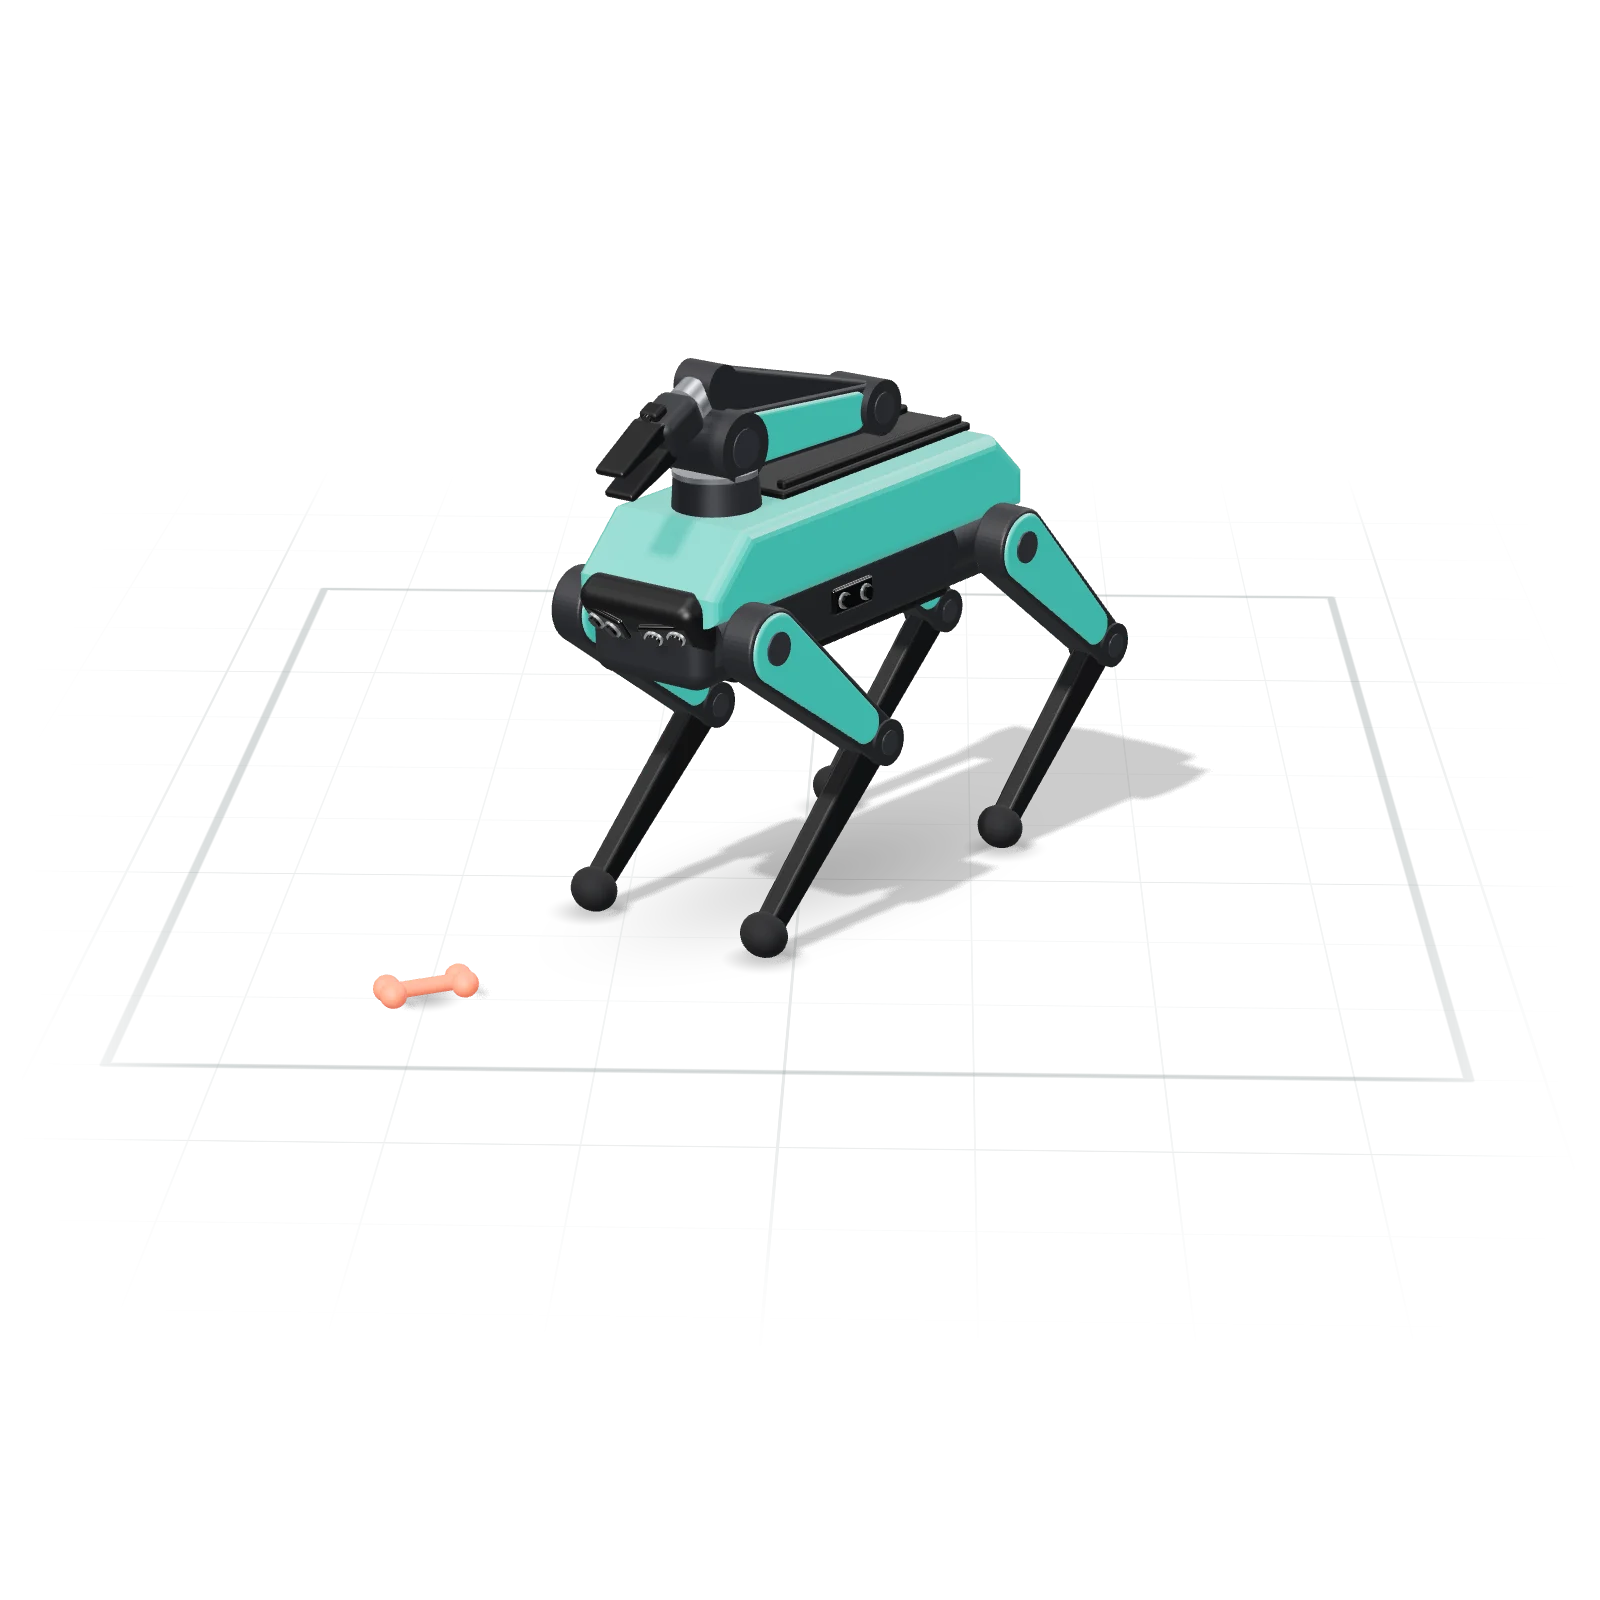
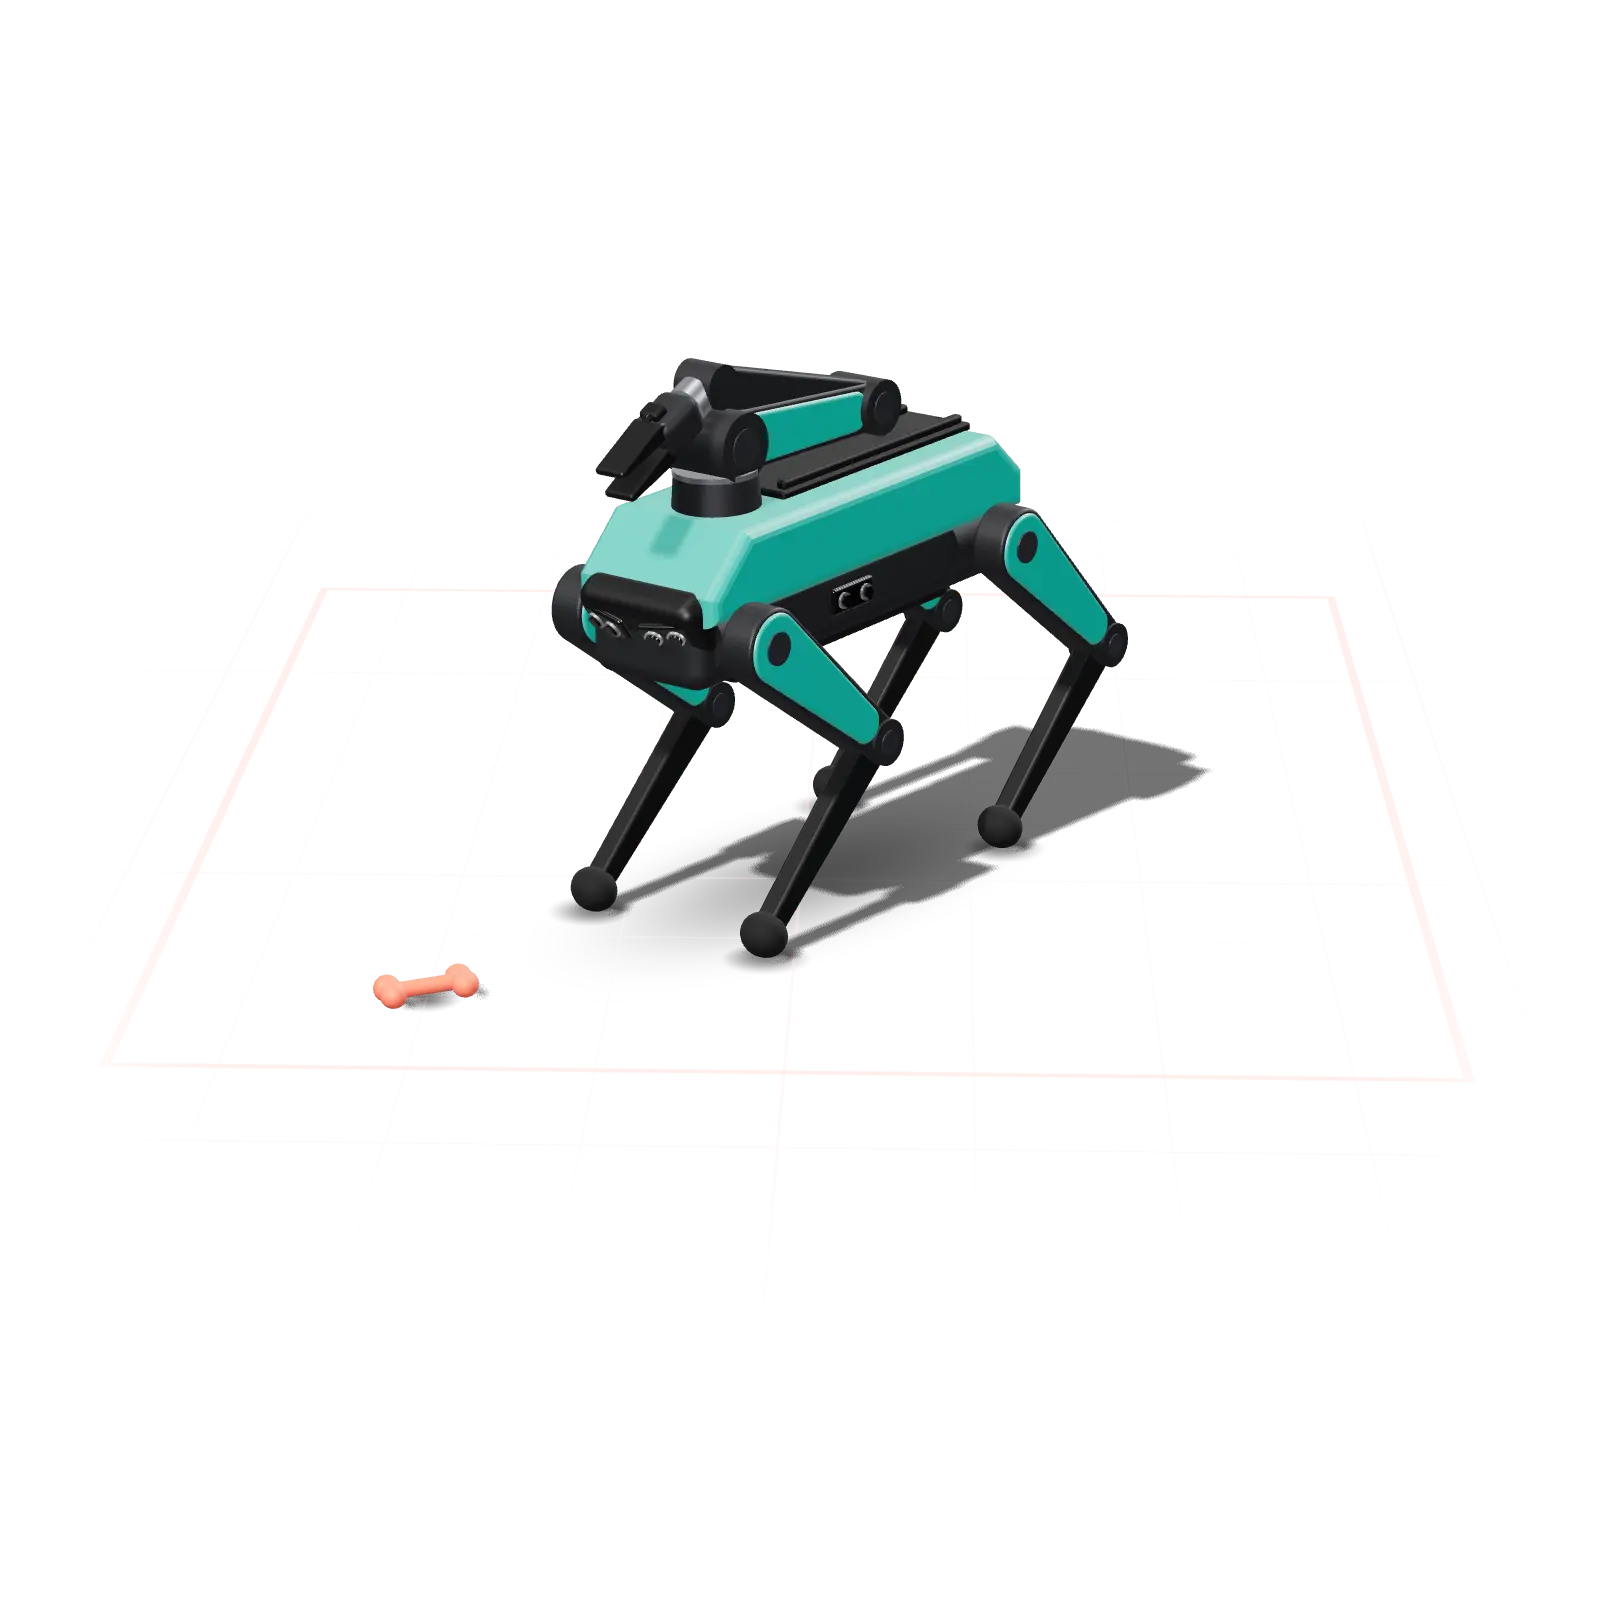
Put the home robot in a dark lab panel in each light palette
In the light themes the hero looked almost the same in every palette:
cream page, near-black name and button. Now the robot stands in a lab
panel in the palette's deepest block, with its floor lines in that
block's bright ink: Spot graphite and yellow, Terminal navy and green,
Courant violet and gold, Market deep teal and coral. Dark themes already
put the robot on a dark page, and Paper keeps the plain look.

- .hero-lab (palettes.css) applies the block, mesh and grain per
  palette. Inside it the page tokens point at the block, so the stage's
  button and hint stay readable, and hero/palette.js now reads colors
  from the scene's host: the floor, tape, hover ring (--mark) and the
  lighting (dark for a dark ground) follow the panel.
- The end of "Malhotra" that runs onto the panel switches to the
  panel's ink. The split is one column gap past the name's column
  (100cqw), which is the panel's edge at every width, and the name is
  sized off that column so the same ~6rem ("ra") always crosses.
- The main button is in the palette's accent; Paper keeps its ink.
- Courant's toy is lavender so it shows on the violet panel.
- Posters re-rendered in the panel and encoded at WebP 0.75 (looks the
  same as 0.86): the light lab stills are 52-60 KB, the dark ones went
  from about 61 KB to 50 KB.
- The story's confetti uses the palette's category colors.

Lighthouse mobile, Home, median: HTTP/2 FCP 1.64 s, LCP 2.33 s, score
[…]

diff --git a/Ashif/src/styles/palettes.css b/Ashif/src/styles/palettes.css
@@ -3,8 +3,8 @@
  * by <html data-palette="…" data-theme="…">. index.html sets both before
  * first paint from the visitor's saved choice (Spot and light by default).
  * Components only use the semantic tokens, so a palette recolors the whole
- * site, the robot included (hero/palette.js reads --bg, --fg, --accent and
- * --robot).
+ * site, the robot included (hero/palette.js reads --bg, --fg, --mark,
+ * --robot and --robot-toy).
  *
  * Text pairs are checked by scripts/check-contrast.mjs (npm run contrast):
  * fg, muted and subtle on bg and surface, accent-strong on bg, each ink on
@@ -23,7 +23,10 @@
  *   glow-1, glow-2           light pooling on color blocks (decorative)
  *   duo-dark, duo-light      duotone for the photos under the pile
  *   robot                    the hero robot's paint
- *   toy                      its toy, where the accent won't show (else accent)
+ *   robot-toy                its toy, where the accent won't show (else accent)
+ *
+ * The home hero's lab panel (.hero-lab, below) and the Spot story's fixed
+ * object colors (the end of this file) are set here too.
  */
 
 /* The palette's swatch (the navbar button, drawn from CSS so it is right at
@@ -170,7 +173,7 @@
   --c4: #2563c9;
   --c5: #3f7d20;
   --robot: #ffc400;
-  /* A yellow toy would vanish on the cream floor; safety orange stands out. */
+  /* Safety orange, so the toy reads apart from the yellow robot. */
   --robot-toy: #ff6a1f;
 }
 
@@ -298,6 +301,8 @@
   --c4: #1f6fb2;
   --c5: #2e7d4f;
   --robot: #e3a92f;
+  /* The accent violet would vanish in the violet lab panel. */
+  --robot-toy: #b98aff;
 }
 
 [data-palette="courant"][data-theme="dark"] {
@@ -392,6 +397,53 @@
   --c4: #8ea2ff;
   --c5: #c79bff;
   --robot: #22b8a8;
+}
+
+/* The home hero's robot stage. In the light themes the robot stands in a
+   dark lab: the palette's deepest block, its floor lines in that block's
+   bright ink (Spot graphite and yellow, Terminal navy and green, Courant
+   violet and gold, Market deep teal and coral). Dark themes already are one,
+   and Paper keeps the plain page. Inside it the page tokens point at the
+   block (index.css), and hero/palette.js reads them there, so the scene's
+   floor, lighting and posters follow. --lab-ink colors the part of the
+   hero's name that runs onto the panel (Hero.jsx). */
+[data-palette="spot"][data-theme="light"] {
+  --lab-ink: var(--on-block-b);
+}
+
+[data-palette="spot"][data-theme="light"] .hero-lab {
+  @apply block-b mesh grain;
+}
+
+[data-palette="terminal"][data-theme="light"] {
+  --lab-ink: var(--on-block-a);
+}
+
+[data-palette="terminal"][data-theme="light"] .hero-lab {
+  @apply block-a mesh grain;
+}
+
+[data-palette="courant"][data-theme="light"] {
+  --lab-ink: var(--on-block-c);
+}
+
+[data-palette="courant"][data-theme="light"] .hero-lab {
+  @apply block-c mesh grain;
+}
+
+[data-palette="market"][data-theme="light"] {
+  --lab-ink: var(--on-block-c);
+}
+
+[data-palette="market"][data-theme="light"] .hero-lab {
+  @apply block-c mesh grain;
+}
+
+/* The home hero's main button (an ink button, Hero.jsx) is in the palette's
+   accent; Paper, the plain look, keeps the ink. */
+:root:not([data-palette="paper"]) .hero-cta {
+  --fg: var(--accent);
+  --bg: var(--accent-ink);
 }
 
 /* The Spot story's objects (components/projects/spot): the robot's yellow

diff --git a/Ashif/src/components/hero/Hero.jsx b/Ashif/src/components/hero/Hero.jsx
@@ -16,13 +16,17 @@ export default function Hero() {
       {/* DOM order is name, actions, stage (reading and tab order); from lg the
           grid places the stage in the right-hand columns. */}
       <div className="container-page grid min-h-svh grid-cols-1 content-start pb-10 pt-[4.75rem] sm:pt-24 lg:grid-cols-12 lg:grid-rows-[1fr_auto_auto_1fr] lg:gap-x-8 lg:pb-10">
-        <div className="relative z-10 lg:col-span-5 lg:row-start-2">
-          {/* "Malhotra" is ~5.2em wide in Hubot Sans: on phones size it to the
-              gutters (with margin to spare); from lg it is a fixed display size. */}
+        <div className="relative z-10 lg:col-span-5 lg:row-start-2 lg:[container-type:inline-size]">
+          {/* "Malhotra" is ~5.22em wide in Hubot Sans: on phones size it to the
+              gutters (with margin to spare). From lg it is sized off this
+              column (100cqw) so it always runs 6rem past the column gap, onto
+              the robot's stage. Where the stage is a lab panel (palettes.css),
+              the letters over it switch to the panel's ink: the split sits one
+              gap past this column, which is the panel's left edge. */}
           <h1
             tabIndex={-1}
             data-page-focus=""
-            className="type-display text-[length:min(calc((100vw_-_2rem)/5.6),4.5rem)] text-fg outline-none lg:text-[length:clamp(3.25rem,8vw,7.5rem)]"
+            className="type-display text-[length:min(calc((100vw_-_2rem)/5.6),4.5rem)] text-fg outline-none lg:w-min lg:bg-[linear-gradient(90deg,var(--fg)_calc(100cqw+2rem),var(--lab-ink,var(--fg))_calc(100cqw+2rem))] lg:bg-clip-text lg:text-[length:calc((100cqw+8rem)/5.22)] lg:text-transparent forced-colors:bg-none forced-colors:text-[CanvasText]"
           >
             {profile.name}
           </h1>
@@ -33,7 +37,8 @@ export default function Hero() {
 
         <div className="relative z-10 mt-6 lg:col-span-5 lg:row-start-3 lg:mt-9">
           <div className="flex flex-wrap gap-3">
-            <Button href="/projects/" size="lg">
+            {/* In the palette's accent (palettes.css); Paper keeps its ink. */}
+            <Button href="/projects/" size="lg" className="hero-cta">
               View projects
             </Button>
             <Button href="/resume/" variant="secondary" size="lg">
@@ -69,7 +74,7 @@ export default function Hero() {
           aria-hidden="true"
           className="pointer-events-none absolute inset-y-0 right-0 hidden w-[62%] bg-[radial-gradient(50%_45%_at_58%_50%,color-mix(in_srgb,var(--glow-1)_26%,transparent),transparent_75%)] lg:block"
         />
-        <RobotStage className="mt-2 lg:col-span-7 lg:col-start-6 lg:row-span-4 lg:row-start-1 lg:mt-0 lg:self-center" />
+        <RobotStage className="mt-8 lg:col-span-7 lg:col-start-6 lg:row-span-4 lg:row-start-1 lg:mt-0 lg:self-center" />
       </div>
     </section>
   );

diff --git a/Ashif/src/components/hero/palette.js b/Ashif/src/components/hero/palette.js
@@ -1,23 +1,39 @@
 const FALLBACK = {
-  light: { bg: '#f6f2e4', fg: '#17181b', line: '#ddd5bd', accent: '#ffc700', robot: '#ffc400' },
-  dark: { bg: '#111214', fg: '#f3efe3', line: '#2a2c31', accent: '#ffc700', robot: '#ffc400' },
+  light: { bg: '#f6f2e4', fg: '#17181b', line: '#ddd5bd', mark: '#b07d00', accent: '#ffc700', robot: '#ffc400' },
+  dark: { bg: '#111214', fg: '#f3efe3', line: '#2a2c31', mark: '#ffc700', accent: '#ffc700', robot: '#ffc400' },
 };
 
+/** Relative luminance of a #rrggbb color, or null for anything else. */
+function luminance(color) {
+  const hex = /^#([0-9a-f]{6})$/i.exec(color)?.[1];
+  if (!hex) return null;
+  const [r, g, b] = [0, 2, 4].map((i) => {
+    const s = parseInt(hex.slice(i, i + 2), 16) / 255;
+    return s <= 0.03928 ? s / 12.92 : ((s + 0.055) / 1.055) ** 2.4;
+  });
+  return 0.2126 * r + 0.7152 * g + 0.0722 * b;
+}
+
 /**
- * Colours for the WebGL stage, read from the CSS custom properties, so the
- * floor, tape, toy and the robot's paint follow the palette and theme.
+ * Colours for the WebGL stage, read from the CSS custom properties where the
+ * scene sits (`el`, its host), so the floor, tape, toy and the robot's paint
+ * follow the palette and theme, and the hero's lab panel where there is one
+ * (palettes.css).
  */
-export function readPalette() {
-  const root = document.documentElement;
-  const theme = root.dataset.theme === 'dark' ? 'dark' : 'light';
-  const style = getComputedStyle(root);
-  const read = (name) => style.getPropertyValue(`--${name}`).trim() || FALLBACK[theme][name];
+export function readPalette(el = document.documentElement) {
+  const pageTheme = document.documentElement.dataset.theme === 'dark' ? 'dark' : 'light';
+  const style = getComputedStyle(el);
+  const read = (name) => style.getPropertyValue(`--${name}`).trim() || FALLBACK[pageTheme][name];
+  const bg = read('bg');
+  const shade = luminance(bg);
   return {
-    theme,
-    bg: read('bg'),
+    // Lighting for what the robot stands on: the page, or a dark lab panel.
+    theme: shade === null ? pageTheme : shade < 0.18 ? 'dark' : 'light',
+    bg,
     fg: read('fg'),
     line: read('line'),
-    accent: read('accent'),
+    // The accent at 3:1 on this ground (in a lab panel, the block's ink).
+    accent: read('mark'),
     robot: read('robot'),
     // Only set where the accent wouldn't show on the floor.
     toy: style.getPropertyValue('--robot-toy').trim() || read('accent'),

diff --git a/Ashif/src/components/hero/RobotStage.jsx b/Ashif/src/components/hero/RobotStage.jsx
@@ -36,8 +36,10 @@ export default function RobotStage({ className }) {
   return (
     <div
       className={cn(
-        'relative -mx-[var(--gutter)] [--gutter:clamp(1rem,4vw,2.5rem)]',
-        'lg:mx-0 lg:-mr-[var(--bleed)] lg:h-[min(calc(100svh-7rem),54rem)] lg:[--bleed:calc(max(0px,(100vw_-_78rem)/2)_+_var(--gutter)_-_1rem)]',
+        // .hero-lab: a dark panel in most light themes (palettes.css). It
+        // bleeds off the right edge from lg, and is a full-width band below.
+        'hero-lab relative -mx-[var(--gutter)] [--gutter:clamp(1rem,4vw,2.5rem)] max-lg:pb-4',
+        'lg:mx-0 lg:-mr-[var(--bleed)] lg:h-[min(calc(100svh-7rem),54rem)] lg:rounded-l-[2.25rem] lg:[--bleed:calc(max(0px,(100vw_-_78rem)/2)_+_var(--gutter)_-_1rem)]',
         className
       )}
     >
@@ -120,7 +122,7 @@ export default function RobotStage({ className }) {
         ref={stage.controlsRef}
         className={cn(
           'mt-3 flex items-center gap-4 px-[var(--gutter)] transition-opacity duration-300 max-lg:min-h-11 sm:mt-5',
-          'lg:absolute lg:bottom-4 lg:left-0 lg:mt-0 lg:flex-col-reverse lg:items-start lg:gap-1.5 lg:px-0',
+          'lg:absolute lg:bottom-6 lg:left-8 lg:mt-0 lg:flex-col-reverse lg:items-start lg:gap-1.5 lg:px-0',
           !(live || canRun) && 'invisible opacity-0'
         )}
       >

diff --git a/Ashif/scripts/posters/index.html b/Ashif/scripts/posters/index.html
@@ -20,7 +20,8 @@
     </style>
   </head>
   <body>
-    <div id="host"></div>
+    <!-- In the hero's lab panel, as on the page (palettes.css). -->
+    <div class="hero-lab"><div id="host"></div></div>
     <script type="module">
       import '/src/index.css';
       import { createRobotScene } from '/src/components/hero/scene/createRobotScene.js';
@@ -33,7 +34,9 @@
         const context = out.getContext('2d');
         context.imageSmoothingQuality = 'high';
         context.drawImage(canvas, 0, 0, size, size);
-        return out.toDataURL('image/webp', 0.86);
+        // 0.75 looks the same as 0.86 here and saves ~15%: the still is the
+        // home page's largest paint on phones.
+        return out.toDataURL('image/webp', 0.75);
       };
 
       /** { full, small }: WebP data URLs at 1600 and 800 px for one palette and theme. */
@@ -43,7 +46,7 @@
         html.dataset.theme = theme;
         const host = document.getElementById('host');
         host.replaceChildren();
-        const scene = createRobotScene({ host, palette: readPalette(), poster: true });
+        const scene = createRobotScene({ host, palette: readPalette(host), poster: true });
         await scene.ready;
         const image = new Image();
         image.src = scene.capture('image/png');

diff --git a/Ashif/src/components/projects/spot/SpotStage.jsx b/Ashif/src/components/projects/spot/SpotStage.jsx
@@ -22,7 +22,8 @@ const CHIP = { x: 300, y: 42 };
 const VIEWFINDER = { x0: 356, y0: 150, x1: 616, y1: 304 };
 const TAG_W = 106;
 const TAG_H = 26;
-const TONES = ['var(--toy)', 'var(--spot)', 'var(--accent)', 'var(--fg)'];
+// Confetti in the palette's own colors, plus Spot's yellow and the pink toy.
+const TONES = ['var(--toy)', 'var(--accent)', 'var(--c1)', 'var(--spot)', 'var(--c3)', 'var(--c4)'];
 const METER_MARK = METER.x0 + THRESHOLD * (METER.x1 - METER.x0);
 
 const f1 = (n) => (Math.round(n * 10) / 10).toString();

diff --git a/Ashif/src/components/hero/scene/createRobotScene.js b/Ashif/src/components/hero/scene/createRobotScene.js
@@ -871,7 +871,7 @@ export function createRobotScene({
 
   // Follow the theme and palette attributes directly, so the canvas recolours
   // in the same frame as the page (including inside the view transition).
-  const themeObserver = new MutationObserver(() => setPalette(readPalette()));
+  const themeObserver = new MutationObserver(() => setPalette(readPalette(host)));
   if (!poster) {
     themeObserver.observe(document.documentElement, {
       attributes: true,

diff --git a/Ashif/src/components/hero/useRobotScene.js b/Ashif/src/components/hero/useRobotScene.js
@@ -140,7 +140,7 @@ export default function useRobotScene({ reducedMotion }) {
         scene = createRobotScene({
           host: hostRef.current,
           overlay: { frame: frameRef, box: boxRef, hud: hudRef, controls: controlsRef, handle: handleRef },
-          palette: readPalette(),
+          palette: readPalette(hostRef.current),
           mobile,
           forced: mode === 'forced',
           onReady: () => setLive(true),

diff --git a/README.md b/README.md
@@ -38,6 +38,11 @@ npm run build     # outputs Ashif/dist
   next page's block. Inside a block (`block-a`, `block-b`, `block-c`) the
   page tokens point at the block's ink, so any component placed on one reads
   correctly.
+- On Home, in the light themes, the robot stands in a dark "lab": the
+  palette's deepest block (`.hero-lab` in `palettes.css`), with its floor
+  lines in that block's bright ink. The end of the name that runs onto it
+  switches to the same ink, and the main button is in the palette's accent.
+  Paper keeps the plain look.
 - Videos (`LiteYouTube`) are a plain card until someone presses play, then a
   youtube-nocookie player loads in the same 16:9 box. Nothing is fetched from
   YouTube before that click, and with JavaScript off the card is a link.
@@ -94,9 +99,10 @@ and theme. After changing one:
 - `npm run contrast` checks every text pair against WCAG AA (body text,
   secondary text, text on each color block, form borders, thin marks, and
   the category colors) and fails if any falls short.
-- If `--bg`, `--fg`, `--accent` or `--robot` changed, run `npm run posters`
-  to re-render the hero stills in `Ashif/public/img/hero` (needs Playwright;
-  takes about a minute), so the poster matches the live scene.
+- If `--bg`, `--fg`, `--mark`, `--robot`, `--robot-toy` or a light theme's
+  lab block changed, run `npm run posters` to re-render the hero stills in
+  `Ashif/public/img/hero` (needs Playwright; takes about a minute), so the
+  poster matches the live scene.
 
 To add a palette, add its two blocks to `palettes.css`, its entry to
 `PALETTES` and `THEME_COLORS` in `Ashif/src/lib/theme.js`, its id and page
